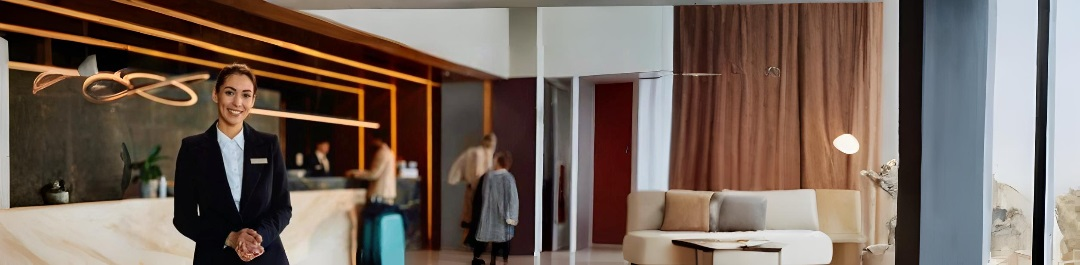
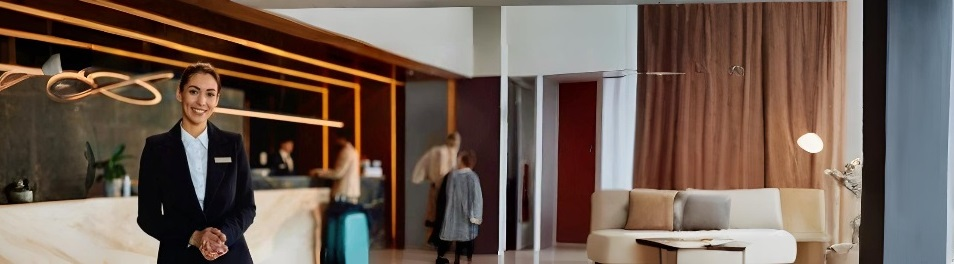
tercera parte

diff --git a/static/style.css b/static/style.css
@@ -53,12 +53,47 @@ html, body {
     transform: translateX(-50%);
     z-index: 4;
     border-radius: 25px;
-    padding: 5px 20px;
+    padding: 10px 20px;
     box-shadow: 0 4px 10px rgba(0, 0, 0, 0.2);
     background-color: rgba(255, 255, 255, 0.7);
     /* fondo blanco con 60% de opacidad */
     border: 1px solid rgba(255, 255, 255, 0.8);
     /* borde blanco claro */
+}
+/* Responsive adjustments */
+@media (max-width: 768px) {
+    #carrusel {
+        height: 300px;
+    }
+
+    #carrusel-img {
+        height: 100%;
+    }
+
+    #carrusel-text {
+        font-size: 0.9rem;
+        width: 90%;
+        left: 50%;
+        bottom: 15%;
+        transform: translate(-50%, 0%);
+        padding: 10px;
+    }
+
+    #navbar-centro {
+        flex-direction: column;
+        padding: 10px;
+        width: 90%;
+        bottom: 10px;
+    }
+
+    .menu {
+        flex-direction: column;
+        text-align: center;
+    }
+
+    .nav-link {
+        padding: 5px 0;
+    }
 }
 
 .custom-tooltip {
@@ -72,12 +107,11 @@ html, body {
 
 /* Imagen con borde redondeado */
 #img-welcome {
-
     width: 100%;
     height: 100%;
+    max-height: 400px;
     object-fit: cover;
-    border-radius: 1rem;
-    height: 300px;
+    border-radius: 0.6rem;
 }
 
 /* Oscurecimiento con borde */
@@ -87,71 +121,88 @@ html, body {
     left: 0;
     width: 100%;
     height: 100%;
-    background: linear-gradient(to left, rgba(0, 0, 0, 1), rgba(0, 0, 0, 0));
+    background: linear-gradient(to left, rgba(0, 0, 0, 0.9), transparent);
     z-index: 1;
     border-radius: 1rem;
     pointer-events: none;
 }
 
-/* Efecto máquina de escribir que se repite */
-.typewriter {
-    font-size: clamp(1rem, 4vw, 4rem);
-    /* Mínimo 1rem, ideal 2.5vw, máximo 3rem */
-
-    overflow: hidden;
-    white-space: nowrap;
-    border-right: 0.15em solid white;
-    animation: typing-erasing 12s steps(30, end) infinite;
-
-}
-
-/* Máquina de escribir: escribir (3s), esperar (3s), borrar (3s), esperar (3s) */
-@keyframes typing-erasing {
-    0% {
-        width: 0
-    }
-
-    25% {
-        width: 100%
-    }
-
-    /* Escribir */
-    50% {
-        width: 100%
-    }
-
-    /* Pausa */
-    75% {
-        width: 0
-    }
-
-    /* Borrado */
-    100% {
-        width: 0
-    }
-
-    /* Pausa */
-}
-
-/* Parpadeo del cursor */
-@keyframes blink-caret {
-
-    from,
-    to {
-        border-color: transparent
-    }
-
-    50% {
-        border-color: white
-    }
-}
-
+/* Contenedor del texto */
 .card-img-overlay {
     position: absolute;
     z-index: 2;
     color: white;
-    text-shadow: 1px 1px 3px rgba(0, 0, 0, 0.7);
+    text-shadow: 1px 1px 3px rgba(0, 0, 0, 0.9);
+    padding: 1rem;
 }
+
+/* Contenedor del texto con max-width para evitar que ocupe todo en móviles */
+.text-container {
+    max-width: 630px;
+    width: 100%;
+}
+
+/* Texto con efecto máquina de escribir */
+.typewriter {
+    font-size: clamp(1.2rem, 4vw, 3rem);
+    overflow: hidden;
+    white-space: nowrap;
+    border-right: 0.06em solid white;
+    animation: typing-erasing 8s steps(40, end) infinite;
+}
+
+/* Animación de escribir y borrar */
+@keyframes typing-erasing {
+    0% { width: 0 }
+    25% { width: 100% }
+    50% { width: 100% }
+    75% { width: 0 }
+    100% { width: 0 }
+}
+
+/* Cursor parpadeante (si lo deseas agregar como efecto) */
+@keyframes blink-caret {
+    from, to { border-color: transparent }
+    50% { border-color: white }
+}
+
+/* Responsive: texto más pequeño y centrado en móviles */
+@media (max-width: 768px) {
+    .card-img-overlay {
+        justify-content: center !important;
+        text-align: center !important;
+        padding-right: 1rem;
+        padding-left: 1rem;
+    }
+
+    .typewriter {
+        font-size: 1.6rem;
+    }
+
+    .card-text, .card-title, .text-container p {
+        font-size: 1.6rem;
+    }
+
+    .img-dark-overlay {
+        background: linear-gradient(to top, rgba(0, 0, 0, 0.7), transparent);
+    }
+}
+
+
+@media (max-width: 768px) {
+    #img-welcome {
+        height: 350px !important; /* asegúrate de forzar esta altura */
+    }
+
+    .text-container {
+        padding: 0 1rem; /* espacio horizontal para que el texto no quede pegado al borde */
+    }
+
+    .text-container p {
+        font-size: clamp(0.85rem, 2.5vw, 1rem);
+    }
+}
+
 
 /* estilo de la estrrella */
 .stars {

diff --git a/templates/base.html b/templates/base.html
@@ -133,17 +133,25 @@
             </div>
 
             <!-- Navbar superpuesto abajo -->
-            <nav id="navbar-centro" class="navbar navbar-expand centered-navbar second-navbar">
+            <nav id="navbar-centro" class="navbar navbar-expand-lg second-navbar">
                 <div class="container-fluid justify-content-center">
-                    <div class="navbar-nav">
-                        <a class="nav-link active" aria-current="page" href="{{ url_for('bienvenido') }}">Inicio</a>
-                        <a class="nav-link" href="{{ url_for('quienes_somos') }}">Quiénes Somos</a>
-                        <a class="nav-link" href="{{ url_for('servicios') }}">Servicios</a>
-                        <a class="nav-link" href="{{ url_for('noticias') }}">Noticias</a>
-                        <a class="nav-link" href="{{ url_for('contacto') }}">Contacto</a>
+                    <button class="navbar-toggler" type="button" data-bs-toggle="collapse"
+                        data-bs-target="#navbarContenido" aria-controls="navbarContenido" aria-expanded="false"
+                        aria-label="Toggle navigation">
+                        <span class="navbar-toggler-icon"></span>
+                    </button>
+                    <div class="collapse navbar-collapse justify-content-center" id="navbarContenido">
+                        <div class="navbar-nav menu">
+                            <a class="nav-link active" href="{{ url_for('bienvenido') }}">Inicio</a>
+                            <a class="nav-link" href="{{ url_for('quienes_somos') }}">Quiénes Somos</a>
+                            <a class="nav-link" href="{{ url_for('servicios') }}">Servicios</a>
+                            <a class="nav-link" href="{{ url_for('noticias') }}">Noticias</a>
+                            <a class="nav-link" href="{{ url_for('contacto') }}">Contacto</a>
+                        </div>
                     </div>
                 </div>
             </nav>
+
         </div>
 
 
@@ -152,7 +160,7 @@
 
 
         {% endblock %}
-        
+
 
         <!-- Footer -->
         <footer class="text-center text-lg-start text-light" id="footer" style="background-color: rgb(0,30,45);">
@@ -183,7 +191,7 @@
 
             <!-- Información de contacto -->
             <section class="mt-4">
-                <div class="container text-center text-md-start">
+                <div class="container text-center text-md-start gx-5">
                     <div class="row  justify-content-center">
                         <div class="col-md-4 col-lg-4 col-xl-4 mb-4 text-center">
                             <h6 class="text-uppercase fw-bold mb-4">
@@ -197,8 +205,7 @@
                             </p>
                         </div>
 
-                        <!-- Espacio en el medio -->
-                        <div class="col-md-1 d-none d-md-block " id="espacio"></div>
+
 
                         <div class="col-md-4 col-lg-4 col-xl-4 mb-md-0 mb-4">
                             <h6 class="text-uppercase fw-bold mb-4">Contacto</h6>
@@ -216,19 +223,19 @@
                 © 2025 Hotel Paraíso. Todos los derechos reservados.
             </div>
         </footer>
-</div>
-        <script src="https://cdn.jsdelivr.net/npm/bootstrap@5.3.6/dist/js/bootstrap.bundle.min.js"
-            integrity="sha384-j1CDi7MgGQ12Z7Qab0qlWQ/Qqz24Gc6BM0thvEMVjHnfYGF0rmFCozFSxQBxwHKO"
-            crossorigin="anonymous"></script>
+    </div>
+    <script src="https://cdn.jsdelivr.net/npm/bootstrap@5.3.6/dist/js/bootstrap.bundle.min.js"
+        integrity="sha384-j1CDi7MgGQ12Z7Qab0qlWQ/Qqz24Gc6BM0thvEMVjHnfYGF0rmFCozFSxQBxwHKO"
+        crossorigin="anonymous"></script>
 
-        <script>
-            const tooltipTriggerList = document.querySelectorAll(
-                '[data-bs-toggle="tooltip"]'
-            );
-            const tooltipList = [...tooltipTriggerList].map(
-                (tooltipTriggerEl) => new bootstrap.Tooltip(tooltipTriggerEl)
-            );
-        </script>
+    <script>
+        const tooltipTriggerList = document.querySelectorAll(
+            '[data-bs-toggle="tooltip"]'
+        );
+        const tooltipList = [...tooltipTriggerList].map(
+            (tooltipTriggerEl) => new bootstrap.Tooltip(tooltipTriggerEl)
+        );
+    </script>
 
 
 </body>

diff --git a/templates/pagina/index.html b/templates/pagina/index.html
@@ -17,18 +17,14 @@
             <!-- Contenido -->
             <div class="card-img-overlay d-flex align-items-center justify-content-end text-end pe-5 mt-4">
                 <div class="text-container">
-                    <h3 class="card-title fw-bold typewriter">
-                        Bienvenido al Hotel Paraíso
-                    </h3>
-                    <p class="card-text mb-1 mt-3">Vive el descanso perfecto en cualquier temporada.</p>
-                    <p class="mb-1 me-4">Naturaleza, comodidad y atención única...</p>
-                    <p class="mb-0 me-5">¡Todo en un solo lugar!</p>
+                    <h3 class="card-title fw-bold typewriter">Bienvenido al Hotel Paraíso</h3>
+                    <p class="mb-1">Vive el descanso perfecto en cualquier temporada.</p>
+                    <p class="mb-1">Naturaleza, comodidad y atención única...</p>
+                    <p class="mb-1 me-5">¡Todo en un solo lugar!</p>
                 </div>
             </div>
         </div>
     </div>
-
-
 </div>
 
 
@@ -127,27 +123,27 @@
 </div>
 
 <div class="container my-5">
-  <h3 class="text-center mb-4 fw-bold">Lo que dicen nuestros huéspedes</h3>
-  <div class="row justify-content-center">
-    <div class="col-md-4 d-flex justify-content-center">
-      <div class="testimonial text-center">
-        <img src="/static/images/persona1.png" alt="Ana M.">
-        <p>"Una experiencia inolvidable. ¡Volveremos sin duda!"<br><strong>- Ana M.</strong></p>
-      </div>
+    <h3 class="text-center mb-4 fw-bold">Lo que dicen nuestros huéspedes</h3>
+    <div class="row justify-content-center">
+        <div class="col-md-4 d-flex justify-content-center">
+            <div class="testimonial text-center">
+                <img src="/static/images/persona1.png" alt="Ana M.">
+                <p>"Una experiencia inolvidable. ¡Volveremos sin duda!"<br><strong>- Ana M.</strong></p>
+            </div>
+        </div>
+        <div class="col-md-4 d-flex justify-content-center">
+            <div class="testimonial text-center">
+                <img src="/static/images/persona2.jpg" alt="Carlos G.">
+                <p>"Excelentes instalaciones y personal muy amable."<br><strong>- Carlos G.</strong></p>
+            </div>
+        </div>
+        <div class="col-md-4 d-flex justify-content-center">
+            <div class="testimonial text-center">
+                <img src="/static/images/persona3.jpg" alt="Lucía R.">
+                <p>"Me encantó el desayuno y las vistas espectaculares."<br><strong>- Lucía R.</strong></p>
+            </div>
+        </div>
     </div>
-    <div class="col-md-4 d-flex justify-content-center">
-      <div class="testimonial text-center">
-        <img src="/static/images/persona2.jpg" alt="Carlos G.">
-        <p>"Excelentes instalaciones y personal muy amable."<br><strong>- Carlos G.</strong></p>
-      </div>
-    </div>
-    <div class="col-md-4 d-flex justify-content-center">
-      <div class="testimonial text-center">
-        <img src="/static/images/persona3.jpg" alt="Lucía R.">
-        <p>"Me encantó el desayuno y las vistas espectaculares."<br><strong>- Lucía R.</strong></p>
-      </div>
-    </div>
-  </div>
 </div>
 
 
